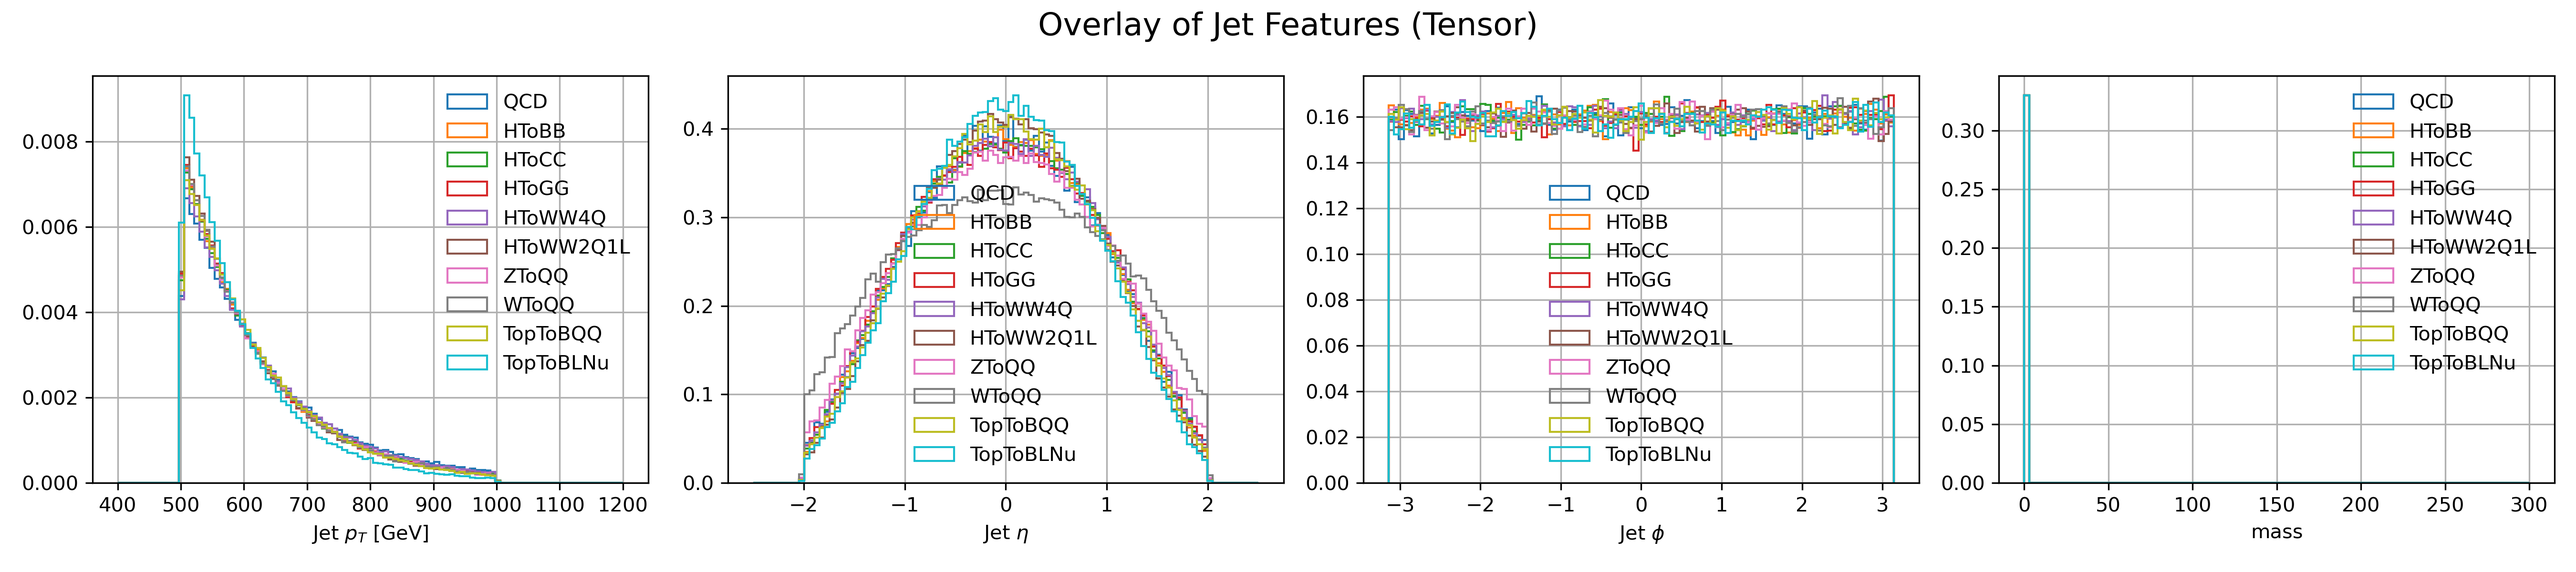
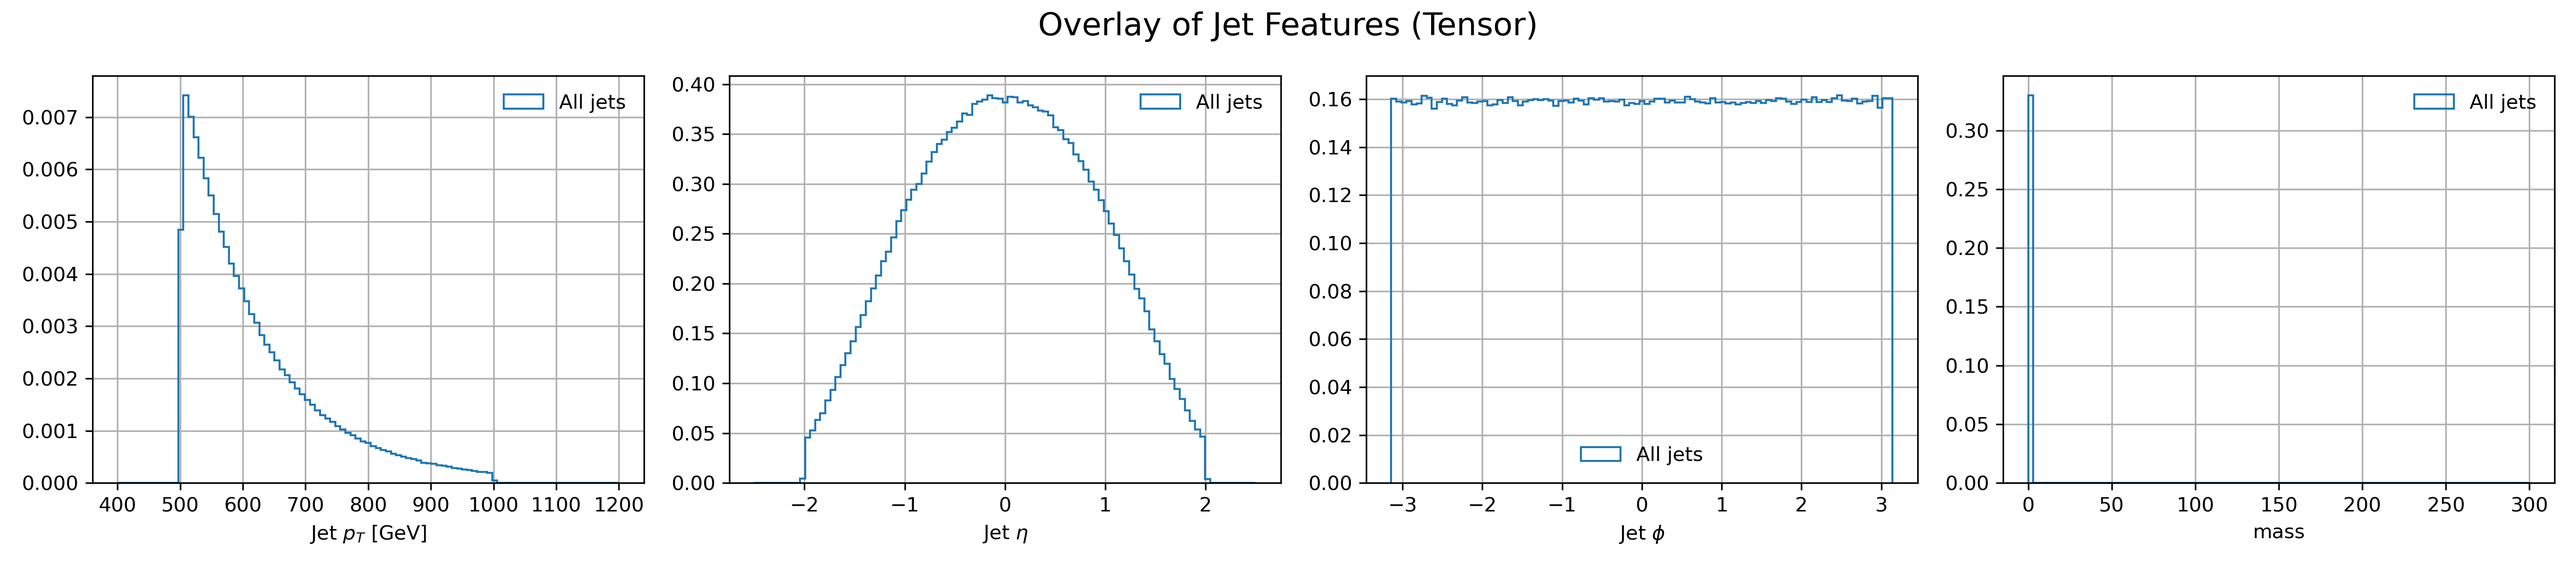
changes in plot

diff --git a/plot/plot.py b/plot/plot.py
@@ -1,4 +1,3 @@
-
 import awkward as ak
 import numpy as np
 import torch
@@ -160,7 +159,7 @@ def plot_tensor_jet_features(jet_tensor: torch.Tensor | list[torch.Tensor], labe
 
 
 def plot_all(start: int = 10, end: int = 12, batch_size: int = 512,
-             filename: str = "all_jet_features.png", overlay: bool = True) -> None:
+             filename: str = "all_jet_features.png", overlay: bool = False) -> None:
     """Plot jet feature distributions for all jet classes.
 
     Parameters
@@ -183,35 +182,30 @@ def plot_all(start: int = 10, end: int = 12, batch_size: int = 512,
         )
 
         jets = []
-        for _, x_jets, _ in dataloader:
-            jets.append(x_jets)
+        for x_particles, _, _ in dataloader:
+            jets.append(x_particles)
 
         if not jets:
             continue
 
         jets = torch.cat(jets, dim=0)
-
-        if jets.shape[1] < 4:
-            p4 = vector.array({
-                "pt": jets[:, 0].cpu().numpy(),
-                "eta": jets[:, 1].cpu().numpy(),
-                "phi": jets[:, 2].cpu().numpy(),
-                "mass": np.zeros_like(jets[:,0].detach().cpu().numpy()),
-            })
-            mass = torch.tensor(p4.mass, dtype=jets.dtype)
-            jets = torch.stack([jets[:, 0], jets[:, 1], jets[:, 2], mass], dim=1)
-
         jet_tensors.append(jets)
         labels.append(display_name)
 
     if not jet_tensors:
         return
-
+    print(f"✅ Total jets: {sum(j.shape[0] for j in jet_tensors)} for {start}-{end} files")
+    print("jet shape" + str(jet_tensors.shape))
     if overlay:
-        plot_tensor_jet_features(jet_tensors, labels=labels, filename=filename)
+        jets = [reconstruct_jet_features_from_particles(j) for j in jet_tensors]
+        plot_tensor_jet_features(jets, labels=labels, filename=filename)
     else:
-        all_jets = torch.cat(jet_tensors, dim=0)
-        plot_tensor_jet_features(all_jets, labels=["All jets"], filename=filename)
+        # Concatenate all jets and reconstruct features from all particles
+        all_jets_particles = torch.cat(jet_tensors, dim=0)  # shape: [N, M, 3]
+        all_jets_particles = all_jets_particles.transpose(1, 2)  # shape: [N, 3, M]
+        print("shape of all jets particles: ", all_jets_particles.shape)
+        jets = reconstruct_jet_features_from_particles(all_jets_particles)
+        plot_tensor_jet_features(jets, labels=["All jets"], filename=filename)
 
 
 
@@ -224,7 +218,7 @@ def reconstruct_jet_features_from_particles(x_particles: torch.Tensor) -> torch.
     Returns: [B, 4] tensor (pt, eta, phi, mass), same device as input
     """
     device = x_particles.device
-    pt, eta, phi = x_particles.unbind(dim=-1)
+    pt, eta, phi = x_particles[:3].unbind(dim=-1)
 
     # Build particle 4-momenta assuming massless particles
     p4 = vector.arr({
